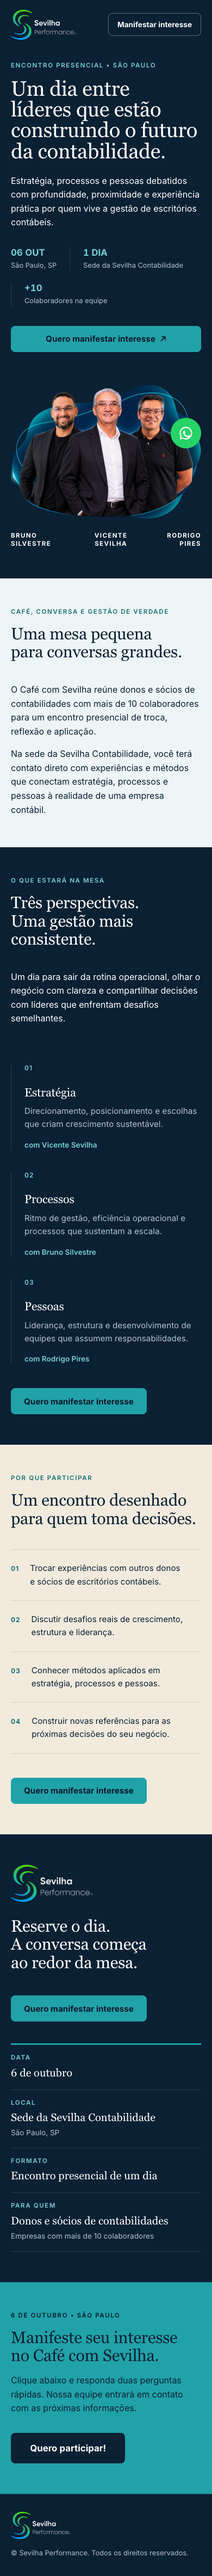
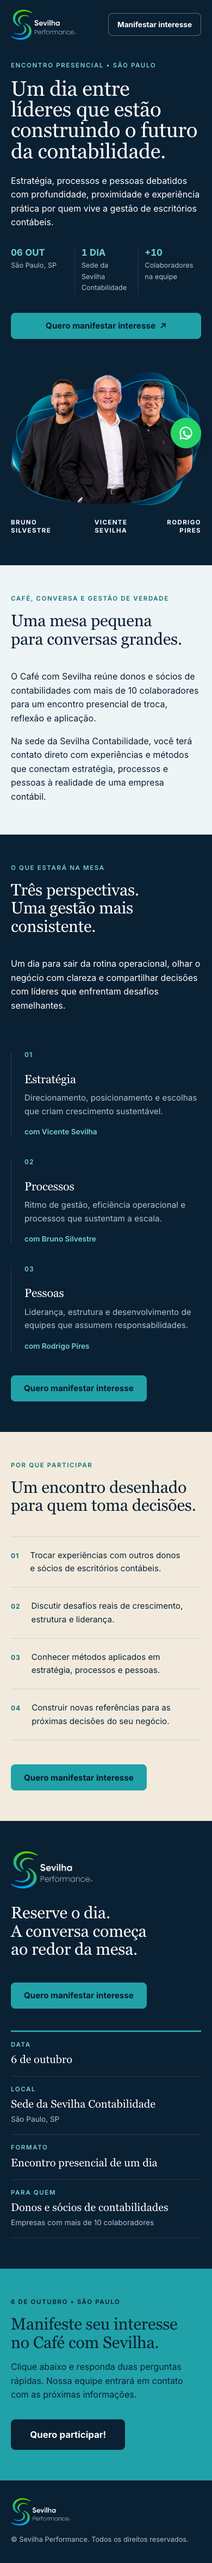
fix(cafe): achados da revisão final — lista única de páginas no .env.example, foco no sucesso inline, header do form-steps, token teal-ink no spec, captura mobile atual

diff --git a/assets/form-steps.js b/assets/form-steps.js
@@ -13,11 +13,11 @@
  *   • quem abria convertia bem (5 de 8), então o gargalo era ABRIR;
  *   • 3 em cada 4 leads que o anúncio traz têm menos de 10 colaboradores, e
  *     só descobriam que a oferta não era para eles depois de digitar tudo.
- * Daí o desenho: o primeiro passo são duas perguntas de um toque cada (porte
- * e cargo), e o segundo pede contato. Quem está abaixo de 10 colaboradores
- * recebe o caminho do Clube da Performance no primeiro passo — e continua
- * podendo se inscrever, porque quem separa perfil é o time no CRM, não a
- * página (ver PRODUCT.md).
+ * Daí o desenho: o primeiro passo são duas perguntas de um toque cada (porte e cargo),
+ * e o segundo pede contato. Quem está abaixo de 10 colaboradores recebe, no primeiro
+ * passo, o caminho da oferta certa para o porte (o Clube por padrão; data-rota troca o
+ * destino — no Café é a aula paga) — e continua podendo se inscrever, porque quem
+ * separa perfil é o time no CRM, não a página (ver PRODUCT.md).
  * ── Contrato com o HTML ─────────────────────────────────────────────────
  * Ids esperados na página (ausentes = o trecho correspondente não roda):
  *   #modal-overlay #form-wrapper #sessao-form #modal-foot
@@ -308,6 +308,8 @@
     var sucesso = document.getElementById('form-success');
     if (wrapper) wrapper.style.display = 'none';
     if (sucesso) sucesso.style.display = 'block';
+    // Café: a confirmação fica na tela, então o foco vai para ela — o botão de enviar sumiu e o leitor de tela ficaria no <body>.
+    if (DESTINO === 'inline' && sucesso) { sucesso.setAttribute('tabindex', '-1'); sucesso.focus(); }
     if (DESTINO === 'kiwify') {
       var dados = ultimoEnvio || {};
       if (window.fbq && window.AULA && window.AULA.checkoutUrl) {

diff --git a/scripts/test-form-passos.js b/scripts/test-form-passos.js
@@ -253,6 +253,7 @@ console.log('\nassets/form-steps.js — destino inline');
 ok(/DESTINO === 'inline'/.test(js), "trata o destino 'inline'");
 ok(/if \(DESTINO === 'inline'\) return;\n\s*setTimeout\(function \(\) \{ window\.location\.href = WHATSAPP_URL; \}/.test(js),
    "no destino inline, mostrarSucesso retorna ANTES do redirecionamento para o WhatsApp");
+ok(/DESTINO === 'inline' && sucesso\) \{ sucesso\.setAttribute\('tabindex', '-1'\); sucesso\.focus\(\); \}/.test(js), 'no destino inline o foco vai para #form-success');
 ok(/cafe: \{\n\s*1: \{/.test(js), 'TEXTOS_POR_OFERTA tem a entrada cafe');
 ok(/form\.dataset\.whatsapp/.test(js), 'lê data-whatsapp do form (o link de erro e o de sucesso deixam de ser só da Sessão)');
 ok(/form\.dataset\.rota/.test(js), 'lê data-rota do form (destino de quem está abaixo do porte)');

diff --git a/docs/superpowers/specs/2026-09-15-cafe-com-sevilha-design.md b/docs/superpowers/specs/2026-09-15-cafe-com-sevilha-design.md
@@ -73,7 +73,7 @@ precisa de rewrite). CSS inline como as irmãs.
 --navy-deep  #07182b   fundo do formulário / rodapé
 --navy-card  #0b2239   cartões sobre navy
 --teal       #20a2a8   botões, kickers, filetes
---teal-ink   #167f85   teal legível sobre claro/creme (o #20a2a8 não passa 4.5:1 sobre branco)
+--teal-ink   #136f75   teal legível sobre claro/creme (#167f85 dava 4,02:1 sobre o creme; este dá 4,98:1)
 --teal-soft  #75d2d3   apoio sobre navy
 --cream      #f2ebdd   seção "Por que participar"
 --light      #eef5f6   seção "Uma mesa pequena"
